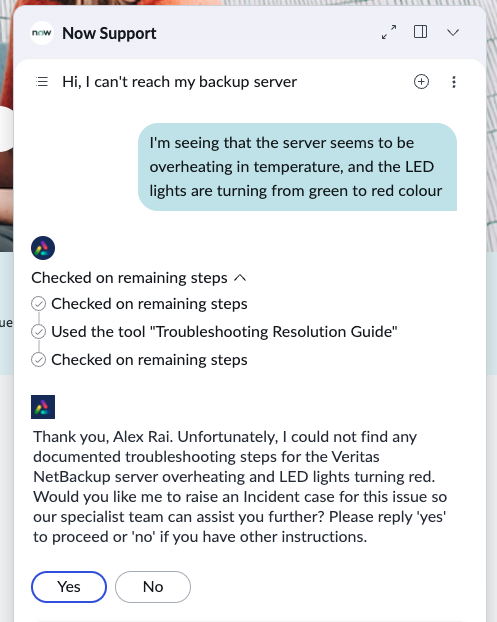
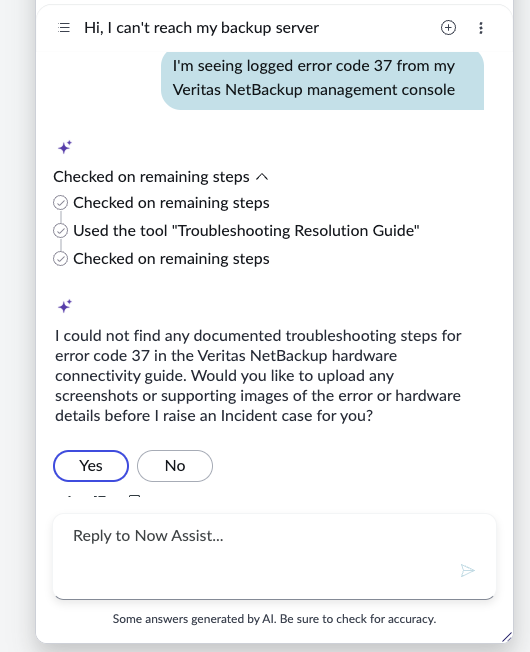
screenshot-changes

diff --git a/02-L1-agent-first-responder-analyst-agent-aileadershipworkshop.md b/02-L1-agent-first-responder-analyst-agent-aileadershipworkshop.md
@@ -336,12 +336,12 @@ After the category selection, the agent continues collecting the structured cont
 
 #### 7.4 — Describe the Issue and Verify Troubleshooting Guide
 
-14. Provide additional detail about the issue, **for example: `I'm seeing that the server seems to be overheating in temperature, and the LED lights are turning from green to red colour`**
+14. Provide additional detail about the issue, **for example: `I'm seeing logged error code 37 from my Veritas NetBackup management console`**
 15. Observe the agent response — you should see:
     * A system message confirming the agent **Used the tool "Troubleshooting Resolution Guide"** — this confirms **Tool 2 (File Upload)** was invoked
     * The agent attempts to match the symptoms against the L1/L2/L3 troubleshooting guide
-    * If no matching resolution steps are found, the agent informs the user and offers to raise an Incident (e.g., _"Unfortunately, I could not find any documented troubleshooting steps for the Veritas NetBackup server overheating and LED lights turning red."_)
-    * The agent presents **Yes** and **No** buttons asking whether to proceed with Incident creation
+    * If no matching resolution steps are found, the agent informs the user and offers to raise an Incident (e.g., _"Unfortunately, I could not find any documented troubleshooting steps for error code 37 in the Veritas NetBackup hardware connectivity guide."_)
+    * The agent presents **Yes** and **No** buttons asking whether to proceed with uploading any screenshots or supporting images of the error before raising an Incident case.
 
 ![Chat — Troubleshooting Guide used, no resolution found, Incident offer](/screenshots/L1-agent-testing-5.png)
 
@@ -380,13 +380,13 @@ After the category selection, the agent continues collecting the structured cont
 #### 7.6 — Upload the Image
 
 18. Click **"Click here to upload an image."** to open the file picker
-19. Select an error screenshot image (e.g., a Veritas NetBackup error screen capture showing an error code) and upload it
+19. Select an error screenshot image (e.g., a Veritas NetBackup error screen capture showing the '37' error code) and upload it. Upload both images that were provided as part of the lab resources provided by the lab.
 20. Observe the chat — you should see:
     * The uploaded image rendered as a thumbnail in the conversation
     * A confirmation message: _"The attachment is available in this link"_
     * The agent shows a **"Processing..."** indicator as it processes the uploaded image
 
-![Chat — Image uploaded, attachment confirmed, processing](/screenshots/L1-agent-testing-7.png)
+![Chat — Image uploaded, attachment confirmed, processing](/screenshots/L1-agent-testing-7a.png)
 
 > **What to verify:**
 
